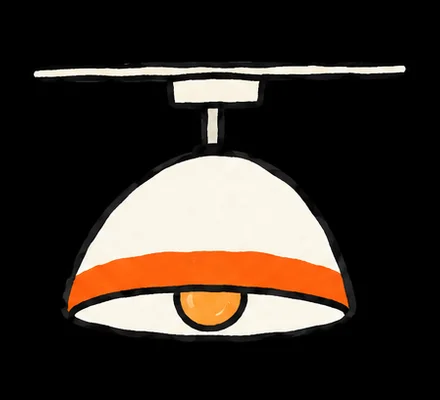
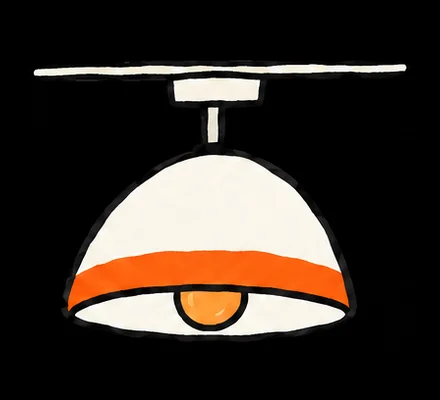
Replace on/scene illustrations with the updated artwork
Claude-Session: https://claude.ai/code/session_015komMVFZwegpyataLnibHm

diff --git a/index.html b/index.html
@@ -451,9 +451,9 @@ footer .links{display:flex;flex-wrap:wrap;gap:18px;margin-bottom:14px}
           <p>on を「〜の上に」と覚えると、on the wall（壁に）や on the ceiling（天井に）で迷います。「くっついている」というイメージでつかめば、全部1つで分かります。</p>
           <div class="pics pics3" role="img" aria-label="on はくっついているイメージ。テーブルに、壁に、天井に、どれも同じ on。">
 <p class="pics-h">on ＝「くっついている」</p>
-<figure><img src="img/il/on-table.webp" alt="" width="440" height="400" loading="lazy"><figcaption><b>on the table</b>テーブルに</figcaption></figure>
-<figure><img src="img/il/on-wall.webp" alt="" width="440" height="400" loading="lazy"><figcaption><b>on the wall</b>壁に</figcaption></figure>
-<figure><img src="img/il/on-ceiling.webp" alt="" width="440" height="400" loading="lazy"><figcaption><b>on the ceiling</b>天井に</figcaption></figure>
+<figure><img src="img/il/on-table.webp?v=2" alt="" width="440" height="400" loading="lazy"><figcaption><b>on the table</b>テーブルに</figcaption></figure>
+<figure><img src="img/il/on-wall.webp?v=2" alt="" width="440" height="400" loading="lazy"><figcaption><b>on the wall</b>壁に</figcaption></figure>
+<figure><img src="img/il/on-ceiling.webp?v=2" alt="" width="440" height="400" loading="lazy"><figcaption><b>on the ceiling</b>天井に</figcaption></figure>
 </div>
         </article>
         <article class="eg">
@@ -462,10 +462,10 @@ footer .links{display:flex;flex-wrap:wrap;gap:18px;margin-bottom:14px}
           <p>英語は、起きた順・目に入る順に並びます。その順番で場面を浮かべれば、日本語に並べ替えなくても分かります。</p>
           <div class="pics pics4" role="img" aria-label="ドアを開けた、猫が見えた、寝ている、ベッドの上で。英語は場面の順に並ぶ。">
 <p class="pics-h">英語は「場面の順」に並ぶ</p>
-<figure><img src="img/il/sc-door.webp" alt="" width="440" height="440" loading="lazy"><figcaption><b>the door</b>ドアを開けた</figcaption></figure>
-<figure><img src="img/il/sc-cat.webp" alt="" width="440" height="440" loading="lazy"><figcaption><b>a cat</b>猫が見えた</figcaption></figure>
-<figure><img src="img/il/sc-sleep.webp" alt="" width="440" height="440" loading="lazy"><figcaption><b>sleeping</b>寝ている</figcaption></figure>
-<figure><img src="img/il/sc-bed.webp" alt="" width="440" height="440" loading="lazy"><figcaption><b>on her bed</b>ベッドの上で</figcaption></figure>
+<figure><img src="img/il/sc-door.webp?v=2" alt="" width="440" height="440" loading="lazy"><figcaption><b>the door</b>ドアを開けた</figcaption></figure>
+<figure><img src="img/il/sc-cat.webp?v=2" alt="" width="440" height="440" loading="lazy"><figcaption><b>a cat</b>猫が見えた</figcaption></figure>
+<figure><img src="img/il/sc-sleep.webp?v=2" alt="" width="440" height="440" loading="lazy"><figcaption><b>sleeping</b>寝ている</figcaption></figure>
+<figure><img src="img/il/sc-bed.webp?v=2" alt="" width="440" height="440" loading="lazy"><figcaption><b>on her bed</b>ベッドの上で</figcaption></figure>
 </div>
         </article>
         <article class="eg">
